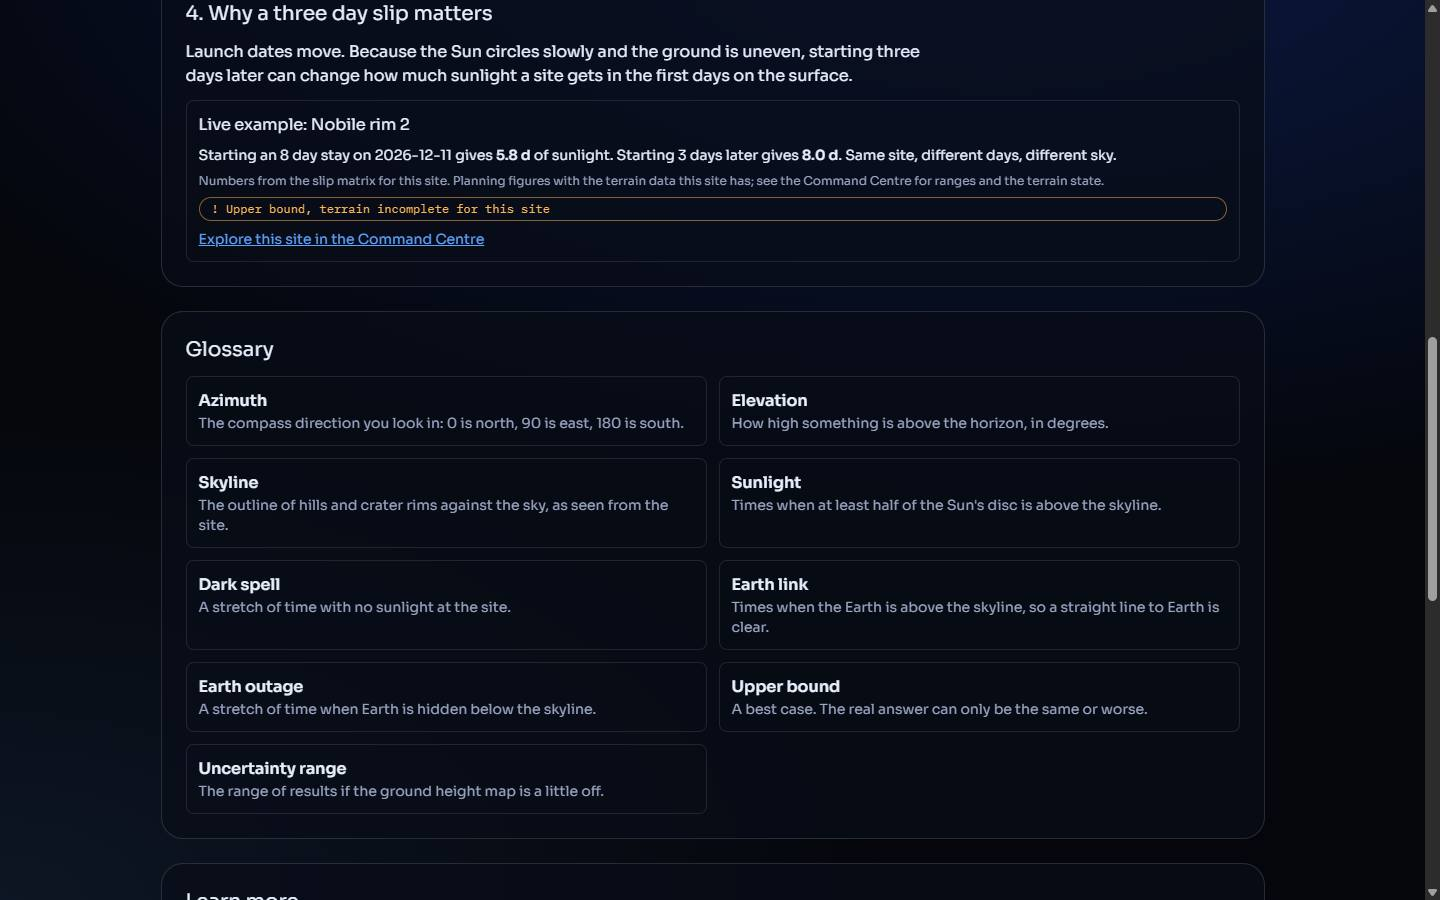
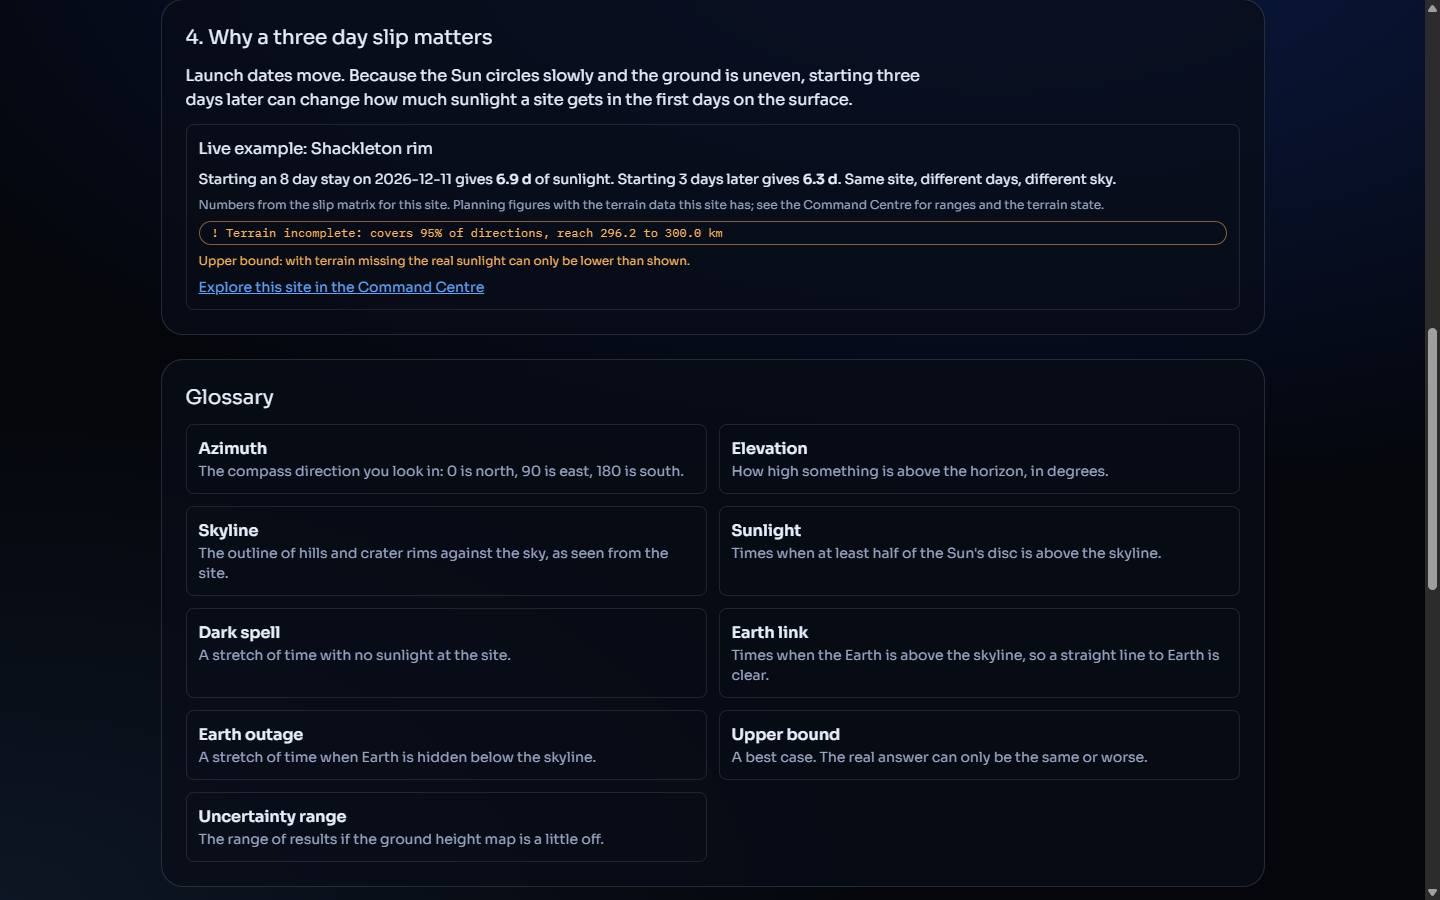
docs(todo): close the accessibility and demo assets rows (#194)
P7-01 and P7-07 with evidence and the limits stated. Screenshots retaken after the fixes deployed. Refs #90 #96.

SI-Assisted: Claude

diff --git a/checklist/CHECKLIST.md b/checklist/CHECKLIST.md
@@ -9,7 +9,7 @@
 | P4 | 11 | 0 | 0 | 11 |
 | P5 | 5 | 0 | 0 | 5 |
 | P6 | 4 | 0 | 0 | 4 |
-| P7 | 5 | 4 | 0 | 9 |
+| P7 | 7 | 2 | 0 | 9 |
 
 | ID | Task | Owner | Status | Evidence / Notes |
 |---|---|---|---|---|
@@ -77,12 +77,12 @@
 | P6-02 | Suitability engine and /lander/assess with tests | irfan | DONE | PR 149: POST /api/v1/lander/assess with power, communication, slope, thermal (not assessed) and mission-need checks, terrain-incomplete downgrade as in /assess, RFC 7807 errors; 10 API tests; full suite 466 passed; web wiring in progress; issue #85 |
 | P6-03 | Spacecraft Dashboard UI | afreen | DONE | PR 141: Spacecraft Dashboard route, placeholder lander values labelled pending-source, reads API results; vitest 50, e2e 23; live https://13-52-97-105.sslip.io/spacecraft; issue #86, #132 |
 | P6-04 | Public View guided story, glossary, simple and detailed modes, CSA and NASA links with attribution | member3 | DONE | PR 141: Public View with story, glossary, simple and detailed toggle, CSA and NASA links with attribution; e2e covers it; live https://13-52-97-105.sslip.io/public; issue #87, #132 |
-| P7-01 | Accessibility audit and fixes (axe, keyboard, contrast, reduced motion) | afreen | PENDING | issue #90 |
+| P7-01 | Accessibility audit and fixes (axe, keyboard, contrast, reduced motion) | afreen | DONE | PRs 148, 165, 168, 191, 193: axe (WCAG 2 A and AA plus best practice) on 9 routes at 1280 and 375 px = 18 tests, 0 serious or critical; keyboard-only tests on compare, slip, picker, public, spacecraft and credits assert an accessible name and a drawn outline on every stop; focus ring fixed on the date calendar button; no sideways scroll at 375 and 320 px on 8 routes (16 tests); token contrast unit test (4.5:1); skip link; verified live on 2026-11-15; NOT done: a real screen reader run, and axe reports contrast as incomplete on gradient backgrounds; e2e 125, vitest 172; issue #90 |
 | P7-02 | Performance audit and fixes (Lighthouse, bundle, 3D) | afreen | DONE | docs/validation/performance-audit.md: Lighthouse 13.6.0 mobile on the live site, a11y 100, best practices 100, SEO 100 after PR 168 (was 91); performance score measured once per page only (/ 93, /command 87) because the run fails with NO_NAVSTART on this machine; route code splitting (initial JS 115.8 to 105.6 kB gzip), robots.txt, heading order fixed; /command total blocking time 120 to 460 ms NOT improved; 3D at about 20 fps; issue #91 |
 | P7-03 | Security hardening, dependency audit, secret scan, headers | irfan | DONE | docs/validation/security-dependency-audit.md: npm audit prod 0 vulnerabilities, pip-audit clean, scan_secrets.py 0 findings; fixes applied and verified on the VM: Caddy headers and 64 KB body cap (PR 155, 413 on a 100 KB POST), systemd hardening (PR 162, services active, ready 200, a custom-site job finished), CI secret scan; dev-only minimatch advisory accepted; issue #92 |
 | P7-04 | Resilience drills: Horizons outage, backup restore, service kill, rollback | irfan | DONE | drills on the live VM (PR 150, docs/validation/resilience-drills.md): rollback 3.0 s, API kill 3.4 s, worker kill 2.2 s with the in-flight job re-run, restore 0.17 s; the retry bug was fixed (PR 154) and the Horizons degraded flag shipped (PR 160, /ready returns horizons_degraded); issue #93 |
 | P7-05 | Attribution audit, in-app Credits page, third-party licence report, NOTICE | member3 | DONE | docs/validation/attribution-audit.md (PR 178): no uncredited source or asset; Credits page live at /credits fed by /api/v1/attribution; docs/THIRD_PARTY_LICENSES.md (393 packages, gen_licenses.py); NOTICE generated from the registry (scripts/build_notice.py --check in CI); usage terms read and recorded for 8 of 10 sources, Moon Trek and QuickMap stay pending-source and are flagged in the app; issue #94 |
 | P7-06 | Docs: README, user guide, architecture, validation report, SI_USAGE final | member3 | DONE | README, docs/USER_GUIDE.md, docs/ARCHITECTURE.md, docs/validation/REPORT.md, docs/SI_USAGE.md (77 commits, helper agents, what was not verified) all current as of 2026-11-15 13:15 IST (PRs 146, 158, 170, 180); issue #95 |
-| P7-07 | Demo assets: 3 minute script, screenshots, submission text draft | member3 | PENDING | partial (PR 146): docs/submission-draft.md and docs/demo-shotlist.md; demo script drafted 2026-11-15 by Claude from a browser walkthrough (docs/demo-script.md, task 4), for Luz to review and edit; screenshots of the shot list not captured; submission text draft still to finish; issue #96 |
+| P7-07 | Demo assets: 3 minute script, screenshots, submission text draft | member3 | DONE | docs/demo-script.md (3 minute draft written by Claude from a browser walkthrough), docs/submission-draft.md (updated to the delivered state), docs/demo-shotlist.md, and 17 screenshots in docs/demo-assets (index in README.md) plus 20 in docs/validation/evidence; the owner confirmed no further human review is needed; issue #96 |
 | P7-08 | Final deploy, uptime check, tag v1.0.0, release notes, START_PROOF export | irfan | PENDING | issue #97 |
 | P7-09 | Feature freeze and final gate: checklist all DONE (--require-complete) | irfan | PENDING | scripts/final-gate.sh (PR 188) runs the whole freeze gate in one command; a dry run on 2026-11-15 passed every step before the tests step, where one timing-sensitive SSE test failed once under load and was made load-proof (PR 187); full run and the checklist step happen at the freeze; issue #98 |

diff --git a/todo/PHASE-7.md b/todo/PHASE-7.md
@@ -4,13 +4,13 @@ Window: +30h to end. Statuses: DONE, PENDING, POSTPONED. Update this table in th
 
 | ID | Task | Owner | Status | Evidence / Notes |
 |---|---|---|---|---|
-| P7-01 | Accessibility audit and fixes (axe, keyboard, contrast, reduced motion) | afreen | PENDING | issue #90 |
+| P7-01 | Accessibility audit and fixes (axe, keyboard, contrast, reduced motion) | afreen | DONE | PRs 148, 165, 168, 191, 193: axe (WCAG 2 A and AA plus best practice) on 9 routes at 1280 and 375 px = 18 tests, 0 serious or critical; keyboard-only tests on compare, slip, picker, public, spacecraft and credits assert an accessible name and a drawn outline on every stop; focus ring fixed on the date calendar button; no sideways scroll at 375 and 320 px on 8 routes (16 tests); token contrast unit test (4.5:1); skip link; verified live on 2026-11-15; NOT done: a real screen reader run, and axe reports contrast as incomplete on gradient backgrounds; e2e 125, vitest 172; issue #90 |
 | P7-02 | Performance audit and fixes (Lighthouse, bundle, 3D) | afreen | DONE | docs/validation/performance-audit.md: Lighthouse 13.6.0 mobile on the live site, a11y 100, best practices 100, SEO 100 after PR 168 (was 91); performance score measured once per page only (/ 93, /command 87) because the run fails with NO_NAVSTART on this machine; route code splitting (initial JS 115.8 to 105.6 kB gzip), robots.txt, heading order fixed; /command total blocking time 120 to 460 ms NOT improved; 3D at about 20 fps; issue #91 |
 | P7-03 | Security hardening, dependency audit, secret scan, headers | irfan | DONE | docs/validation/security-dependency-audit.md: npm audit prod 0 vulnerabilities, pip-audit clean, scan_secrets.py 0 findings; fixes applied and verified on the VM: Caddy headers and 64 KB body cap (PR 155, 413 on a 100 KB POST), systemd hardening (PR 162, services active, ready 200, a custom-site job finished), CI secret scan; dev-only minimatch advisory accepted; issue #92 |
 | P7-04 | Resilience drills: Horizons outage, backup restore, service kill, rollback | irfan | DONE | drills on the live VM (PR 150, docs/validation/resilience-drills.md): rollback 3.0 s, API kill 3.4 s, worker kill 2.2 s with the in-flight job re-run, restore 0.17 s; the retry bug was fixed (PR 154) and the Horizons degraded flag shipped (PR 160, /ready returns horizons_degraded); issue #93 |
 | P7-05 | Attribution audit, in-app Credits page, third-party licence report, NOTICE | member3 | DONE | docs/validation/attribution-audit.md (PR 178): no uncredited source or asset; Credits page live at /credits fed by /api/v1/attribution; docs/THIRD_PARTY_LICENSES.md (393 packages, gen_licenses.py); NOTICE generated from the registry (scripts/build_notice.py --check in CI); usage terms read and recorded for 8 of 10 sources, Moon Trek and QuickMap stay pending-source and are flagged in the app; issue #94 |
 | P7-06 | Docs: README, user guide, architecture, validation report, SI_USAGE final | member3 | DONE | README, docs/USER_GUIDE.md, docs/ARCHITECTURE.md, docs/validation/REPORT.md, docs/SI_USAGE.md (77 commits, helper agents, what was not verified) all current as of 2026-11-15 13:15 IST (PRs 146, 158, 170, 180); issue #95 |
-| P7-07 | Demo assets: 3 minute script, screenshots, submission text draft | member3 | PENDING | partial (PR 146): docs/submission-draft.md and docs/demo-shotlist.md; demo script drafted 2026-11-15 by Claude from a browser walkthrough (docs/demo-script.md, task 4), for Luz to review and edit; screenshots of the shot list not captured; submission text draft still to finish; issue #96 |
+| P7-07 | Demo assets: 3 minute script, screenshots, submission text draft | member3 | DONE | docs/demo-script.md (3 minute draft written by Claude from a browser walkthrough), docs/submission-draft.md (updated to the delivered state), docs/demo-shotlist.md, and 17 screenshots in docs/demo-assets (index in README.md) plus 20 in docs/validation/evidence; the owner confirmed no further human review is needed; issue #96 |
 | P7-08 | Final deploy, uptime check, tag v1.0.0, release notes, START_PROOF export | irfan | PENDING | issue #97 |
 | P7-09 | Feature freeze and final gate: checklist all DONE (--require-complete) | irfan | PENDING | scripts/final-gate.sh (PR 188) runs the whole freeze gate in one command; a dry run on 2026-11-15 passed every step before the tests step, where one timing-sensitive SSE test failed once under load and was made load-proof (PR 187); full run and the checklist step happen at the freeze; issue #98 |
 

diff --git a/docs/demo-assets/README.md b/docs/demo-assets/README.md
@@ -7,18 +7,18 @@ Shot list: docs/demo-shotlist.md. Status per item:
 | # | Shot | File | Status |
 |---|---|---|---|
 | 1 | home | 01-home.jpg | captured |
-| 2 | command overview and verdict | pending | retake after the #179 wording fix is deployed (the live page still says thresholds are "chosen by you" when defaults are in use) |
+| 2 | command overview and verdict | 02-command-verdict.jpg, 02a-command-top.jpg | captured after the wording fix: "Thresholds: placeholder defaults, not mission requirements" |
 | 3 | horizon strip | ../validation/evidence/t5-command-horizon.jpg | captured earlier in the browser run |
 | 5 | two sites by hand | 05a-site07-command.jpg, 05b-site04-command.jpg | captured |
-| 6, 8 | mission needs, countdown chips | ../validation/evidence/t5-command-verdict.jpg | captured earlier; the Thresholds sentence in the Verdict card is the old wording, so do not use that part |
+| 6, 8 | mission needs, countdown chips | ../validation/evidence/t5-command-verdict.jpg | captured earlier; its Thresholds sentence was the old wording, so use 02-command-verdict.jpg for that part |
 | 9 | local terrain | 09-local-terrain.jpg | captured |
 | 10 | timeline | 10-timeline.jpg | captured |
 | 11 | QuickMap button | ../validation/evidence/t1-pgda-site04-quickmap-centre.jpg | QuickMap side captured; button shot pending |
 | 12 | site picker | 12-site-picker.jpg | captured |
 | 13 | coordinate validation | ../validation/evidence/t5-pick-invalid.jpg | captured earlier |
-| 14, 15, 16 | public view, slip, glossary | 14-public-top.jpg, 15-public-slip.jpg | captured; the live example uses a flat-horizon point until #181 is deployed, so retake 15 after the deploy |
+| 14, 15, 16 | public view, slip, glossary | 14-public-top.jpg, 15-public-slip.jpg (glossary is in the same page below the slip) | captured; the slip example now uses Shackleton rim |
 | 17 | spacecraft | 17-spacecraft.jpg | captured |
 | 18 | credits | 18-credits.jpg | captured |
 | 19 | api docs | 19-api-docs.jpg | captured |
-| 20 | mobile 375 px | ../validation/evidence/t5-command-375.jpg | Command Centre captured; retake /slip and /credits after #174 and #175 are deployed |
-| 21 | keyboard focus | pending | after the accessibility close-out |
+| 20 | mobile 375 px | 20a-slip-375.jpg, 20b-credits-375.jpg, 20c-command-375.jpg | captured after the overflow fix |
+| 21 | keyboard focus | 21-keyboard-focus.jpg | captured: the date field shows a 2 px outline |

diff --git a/.claude/UPDATES.md b/.claude/UPDATES.md
@@ -66,3 +66,4 @@ Format: `YYYY-MM-DDTHH:MM:SSZ | user | phase-task | one line | commit sha or PR`
 2026-11-15T09:04:16Z | irfan | P7-09,P3 | custom sites use far terrain verified live (real job 69 s, reach 204 to 300 km, tiers mosaic and 20 m); final gate script added | docs/todo-evidence-10
 2026-11-15T09:14:44Z | irfan | P7-07 | 11 demo screenshots captured from the live site with an index that lists what must be retaken after the web fixes deploy | docs/demo-assets-index
 2026-11-15T09:35:41Z | irfan | P3 | API echoes marginal_factor in criteria and a kind on every site, regenerated contracts, mutation checked | feat/api-marginal-factor-kind
+2026-11-15T10:05:32Z | afreen+irfan | P7-01,P7-07 | accessibility close-out (axe 1280 and 375 px, keyboard-only tests, focus ring), fragile explanation, kind filter deployed (PR 193); 17 demo screenshots retaken after the fixes | docs/close-p7-01-p7-07
